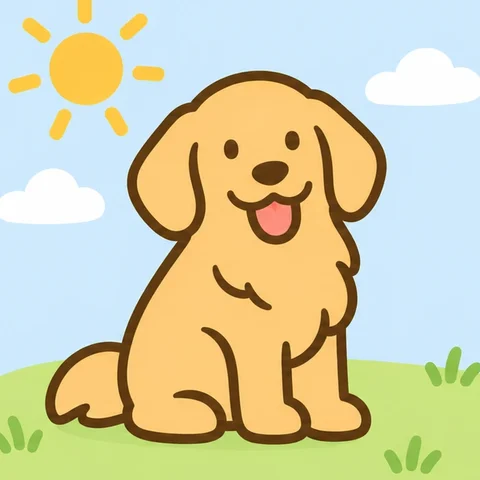
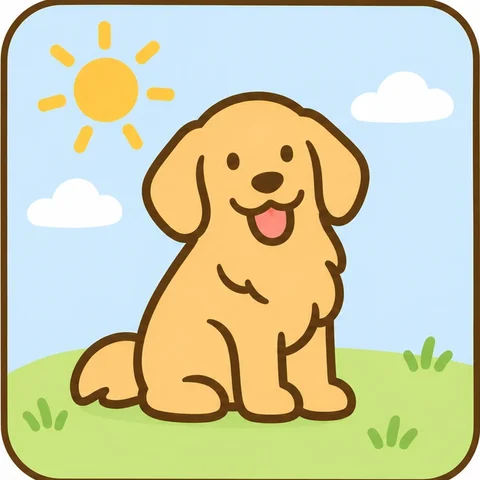
Robust-to card: whole drawings, stronger corruption, known classes rise as the car appears

diff --git a/index.html b/index.html
@@ -18,7 +18,7 @@
 <link rel="icon" href="assets/img/favicon.svg" type="image/svg+xml">
 <link rel="apple-touch-icon" href="assets/img/apple-touch-icon.png">
 <link rel="preload" href="assets/fonts/geist-latin-wght-normal.woff2" as="font" type="font/woff2" crossorigin>
-<link rel="stylesheet" href="assets/css/style.css?v=12">
+<link rel="stylesheet" href="assets/css/style.css?v=13">
 <script>
 (function () {
   var d = document.documentElement;
@@ -92,7 +92,7 @@
         <p class="map__title">Robust to</p>
         <svg class="sh-defs" width="0" height="0" aria-hidden="true" focusable="false">
           <defs>
-            <clipPath id="sh-clip"><rect x="3" y="3" width="114" height="114" rx="10"/></clipPath>
+            <clipPath id="sh-clip"><rect x="3" y="3" width="114" height="114" rx="11"/></clipPath>
             <filter id="sh-softblur" x="-20%" y="-20%" width="140%" height="140%"><feGaussianBlur stdDeviation="1.4"/></filter>
           </defs>
         </svg>
@@ -102,10 +102,10 @@
               <span class="shift__phase" aria-hidden="true"><span class="ph-a">Training</span><span class="ph-b">Shifted</span></span>
               <svg viewBox="0 0 120 120" aria-hidden="true">
             <g clip-path="url(#sh-clip)">
-              <g class="sh-a"><image href="assets/img/shifts/dog-source.webp" x="3" y="3" width="114" height="114" preserveAspectRatio="xMidYMid slice"/></g>
-              <g class="sh-b"><image href="assets/img/shifts/dog-sketch.webp" x="3" y="3" width="114" height="114" preserveAspectRatio="xMidYMid slice"/></g>
+              <g class="sh-a"><image href="assets/img/shifts/dog-source.webp" x="1" y="1" width="118" height="118" preserveAspectRatio="xMidYMid slice"/></g>
+              <g class="sh-b"><image href="assets/img/shifts/dog-sketch.webp" x="1" y="1" width="118" height="118" preserveAspectRatio="xMidYMid slice"/></g>
             </g>
-                <rect class="sh-frame" x="3" y="3" width="114" height="114" rx="10"/>
+                <rect class="sh-frame" x="3" y="3" width="114" height="114" rx="11"/>
               </svg>
             </div>
             <figcaption><b>Domain shift</b><span>Trained on color drawings, tested on pencil sketches.</span></figcaption>
@@ -115,10 +115,10 @@
               <span class="shift__phase" aria-hidden="true"><span class="ph-a">Training</span><span class="ph-b">Shifted</span></span>
               <svg viewBox="0 0 120 120" aria-hidden="true">
             <g clip-path="url(#sh-clip)">
-              <image href="assets/img/shifts/dog-source.webp" x="3" y="3" width="114" height="114" preserveAspectRatio="xMidYMid slice"/>
-              <g class="sh-b"><image href="assets/img/shifts/dog-noisy.webp" x="3" y="3" width="114" height="114" preserveAspectRatio="xMidYMid slice"/></g>
+              <image href="assets/img/shifts/dog-source.webp" x="1" y="1" width="118" height="118" preserveAspectRatio="xMidYMid slice"/>
+              <g class="sh-b"><image href="assets/img/shifts/dog-noisy.webp" x="1" y="1" width="118" height="118" preserveAspectRatio="xMidYMid slice"/></g>
             </g>
-                <rect class="sh-frame" x="3" y="3" width="114" height="114" rx="10"/>
+                <rect class="sh-frame" x="3" y="3" width="114" height="114" rx="11"/>
               </svg>
             </div>
             <figcaption><b>Corruption</b><span>Noise and blur at test time.</span></figcaption>
@@ -139,7 +139,7 @@
               <g class="sl"><image href="assets/img/shifts/face-red.webp" x="42" y="85.16" width="34" height="21.67"/></g>
               <g class="sl"><image href="assets/img/shifts/cat-tabby.webp" x="81.40" y="83.51" width="27.20" height="24.98"/></g>
             </g>
-                <rect class="sh-frame" x="3" y="3" width="114" height="114" rx="10"/>
+                <rect class="sh-frame" x="3" y="3" width="114" height="114" rx="11"/>
               </svg>
             </div>
             <figcaption><b>Label shift</b><span>The class mix changes after training.</span></figcaption>
@@ -150,15 +150,17 @@
               <svg viewBox="0 0 120 120" aria-hidden="true">
             <rect class="sh-bg" x="3" y="3" width="114" height="114" rx="10"/>
             <g clip-path="url(#sh-clip)">
-              <image href="assets/img/shifts/face-golden.webp" x="12" y="21.25" width="40" height="25.50"/><rect class="sh-box" x="10" y="12" width="44" height="44" rx="3"/>
-              <image href="assets/img/shifts/cat-grey.webp" x="70.00" y="19.30" width="32.00" height="29.39"/><rect class="sh-box" x="64" y="12" width="44" height="44" rx="3"/>
+              <g class="sh-row">
+                <image href="assets/img/shifts/face-golden.webp" x="12" y="21.25" width="40" height="25.50"/><rect class="sh-box" x="10" y="12" width="44" height="44" rx="3"/>
+                <image href="assets/img/shifts/cat-grey.webp" x="70.00" y="19.30" width="32.00" height="29.39"/><rect class="sh-box" x="64" y="12" width="44" height="44" rx="3"/>
+              </g>
               <g class="sh-new">
                 <image href="assets/img/shifts/car.webp" x="40" y="68" width="40" height="33"/>
                 <rect class="sh-box sh-box--new" x="33" y="63" width="54" height="44" rx="3"/>
                 <g class="sh-q"><circle cx="86" cy="64" r="8"/><text x="86" y="68.2">?</text></g>
               </g>
             </g>
-                <rect class="sh-frame" x="3" y="3" width="114" height="114" rx="10"/>
+                <rect class="sh-frame" x="3" y="3" width="114" height="114" rx="11"/>
               </svg>
             </div>
             <figcaption><b>New classes</b><span>Objects never seen in training.</span></figcaption>
@@ -587,6 +589,6 @@
   </main>
 </div>
 
-<script src="assets/js/site.js?v=12" defer></script>
+<script src="assets/js/site.js?v=13" defer></script>
 </body>
 </html>

diff --git a/assets/css/style.css b/assets/css/style.css
@@ -256,7 +256,7 @@ html[data-lens] .map__theme:not(.is-on) { opacity: .5; }
 @keyframes sh-progress { from { transform: scaleX(0); } to { transform: none; } }
 
 /* art */
-.sh-frame { fill: none; stroke: var(--shift); stroke-width: 2; }
+.sh-frame { fill: none; stroke: var(--shift); stroke-width: 2.6; }
 .sh-bg { fill: var(--card); }
 .sh-box { fill: none; stroke: var(--ink-2); stroke-width: 1; opacity: .7; }
 .sh-box--new { stroke: var(--shift); stroke-width: 1.4; stroke-dasharray: 3.2 2.2; opacity: 1; }
@@ -279,8 +279,11 @@ html[data-lens] .map__theme:not(.is-on) { opacity: .5; }
 .shift--label.is-on .sl-old { animation: sh-pop-out .32s calc(var(--sh-delay) + var(--d)) ease-in both; }
 .shift--label.is-on .sl-burst { animation: sh-burst .45s calc(var(--sh-delay) + var(--d) + .22s) ease-out both; }
 .shift--label.is-on .sl-new { animation: sh-pop-in .42s calc(var(--sh-delay) + var(--d) + .26s) cubic-bezier(.34, 1.7, .64, 1) both; }
+/* the two known classes start in the middle and make room as the car arrives */
+.shift--open.is-on .sh-row { animation: sh-rise .6s calc(var(--sh-delay) + .25s) cubic-bezier(.45, 0, .25, 1) both; }
 .shift--open.is-on .sh-new { animation: sh-pop-in .55s calc(var(--sh-delay) + .35s) cubic-bezier(.34, 1.7, .64, 1) both; }
 
+@keyframes sh-rise { from { transform: translateY(26px); } to { transform: none; } }
 @keyframes sh-frame { from { stroke: var(--train); } to { stroke: var(--shift); } }
 @keyframes sh-slide-out { from { transform: none; opacity: 1; } to { transform: translateX(-40px); opacity: 0; } }
 @keyframes sh-slide-in { from { transform: translateX(40px); opacity: 0; } to { transform: none; opacity: 1; } }
